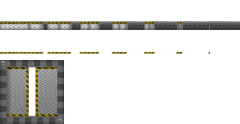
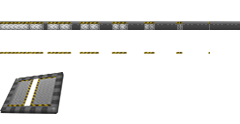
Neues 3D-Titelbild für die große Bodenlucke. Gestein wiederstandsfähiger; hinterlässt bei seiner Zerstörung keine Steine mehr.

Changed region(s): [[0.0, 0.4839, 0.2917, 1.0]]

diff --git a/cmcrepos/ModernCombatDev.c4d/System.c4g/Fading.c b/cmcrepos/ModernCombatDev.c4d/System.c4g/Fading.c
@@ -1,6 +1,9 @@
 /*-- Fading --*/
 
+//Globaler Ausblendeffekt.
+
 #strict
+
 
 global func FxFadeOutStart(target, no, temp, level)
 {
@@ -48,7 +51,8 @@ global func FadeIn(object pObject, int level)
   return(AddEffect("FadeIn", pObject, 101, 2,0,0,level));
 }
 
-global func StopFading(int color, object pObject) {
+global func StopFading(int color, object pObject)
+{
   if(!pObject)
     pObject = this();
   

diff --git a/cmcrepos/ModernCombatDev.c4d/Structural.c4d/Deco.c4d/Screens.c4d/Screen.c4d/Script.c b/cmcrepos/ModernCombatDev.c4d/Structural.c4d/Deco.c4d/Screens.c4d/Screen.c4d/Script.c
@@ -3,8 +3,11 @@
 #strict
 
 
+/* Initalisierung */
+
 func Initialize()
 {
+  //Standardanimation nutzen
   SetAction("Scan");
   AddFrame();
 }
